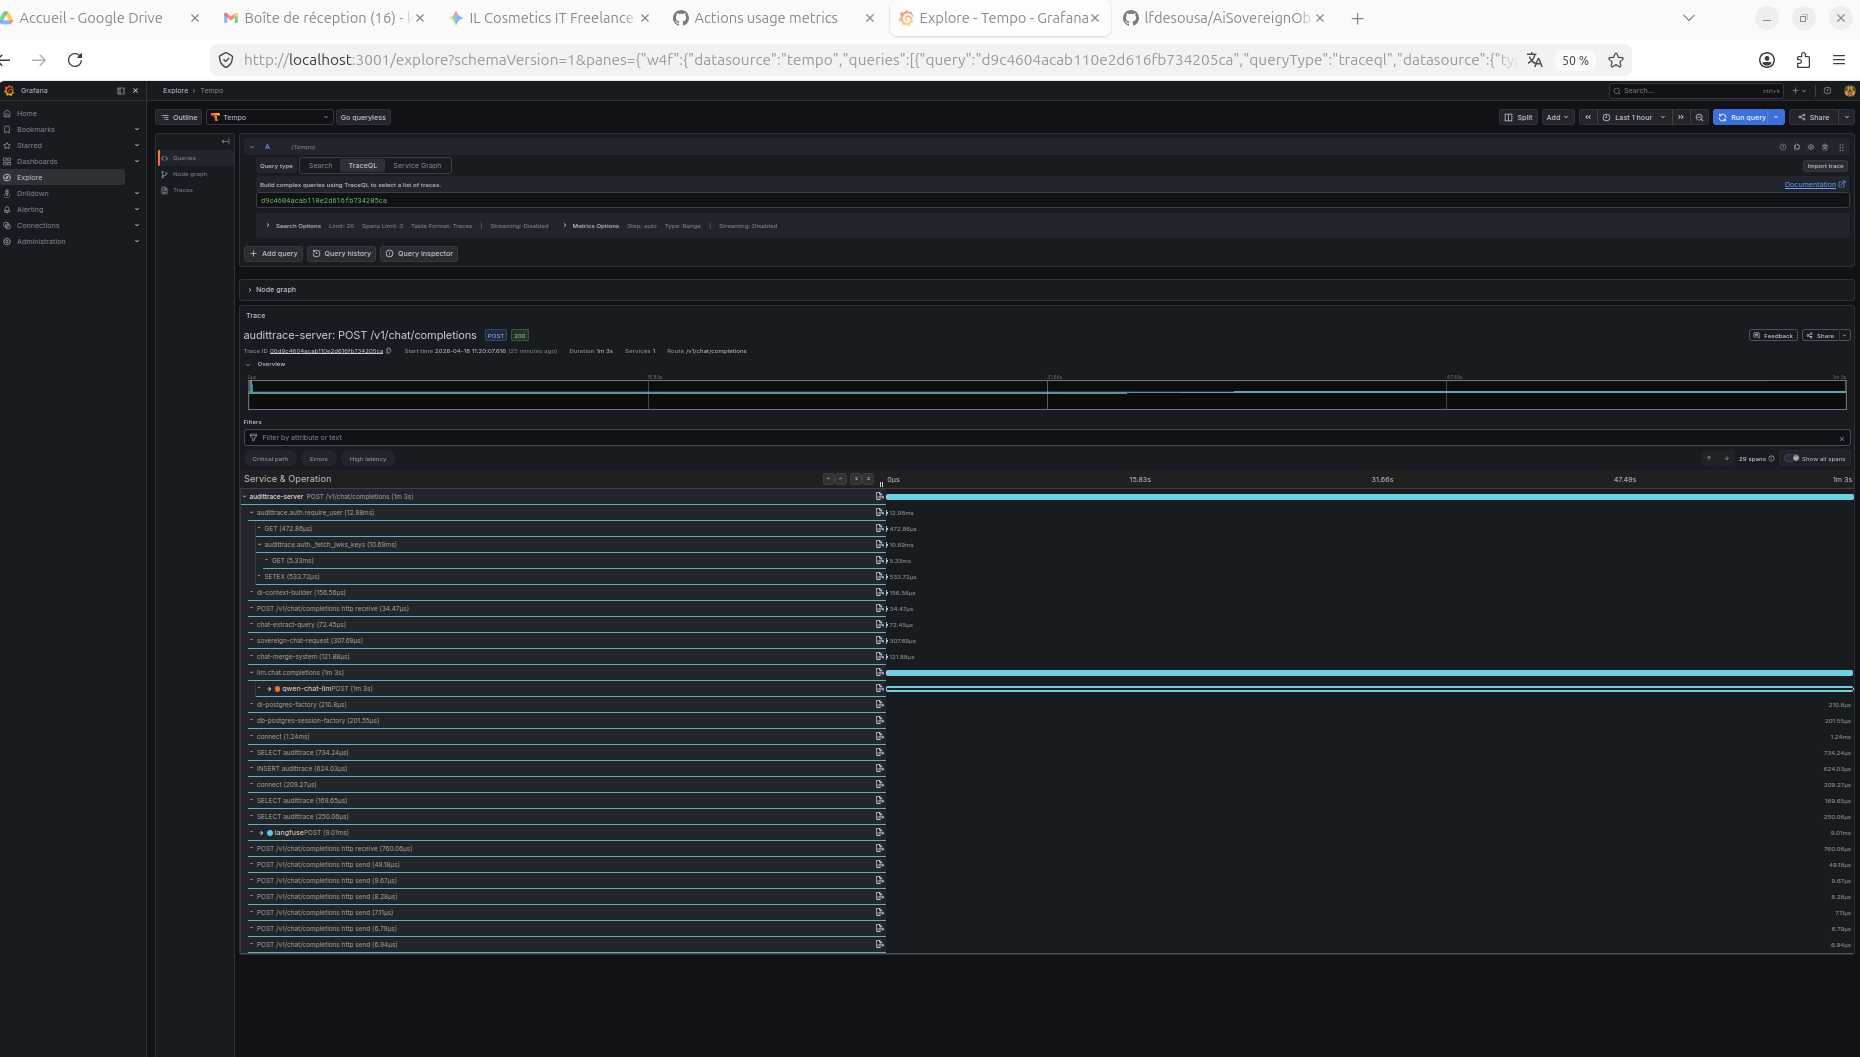
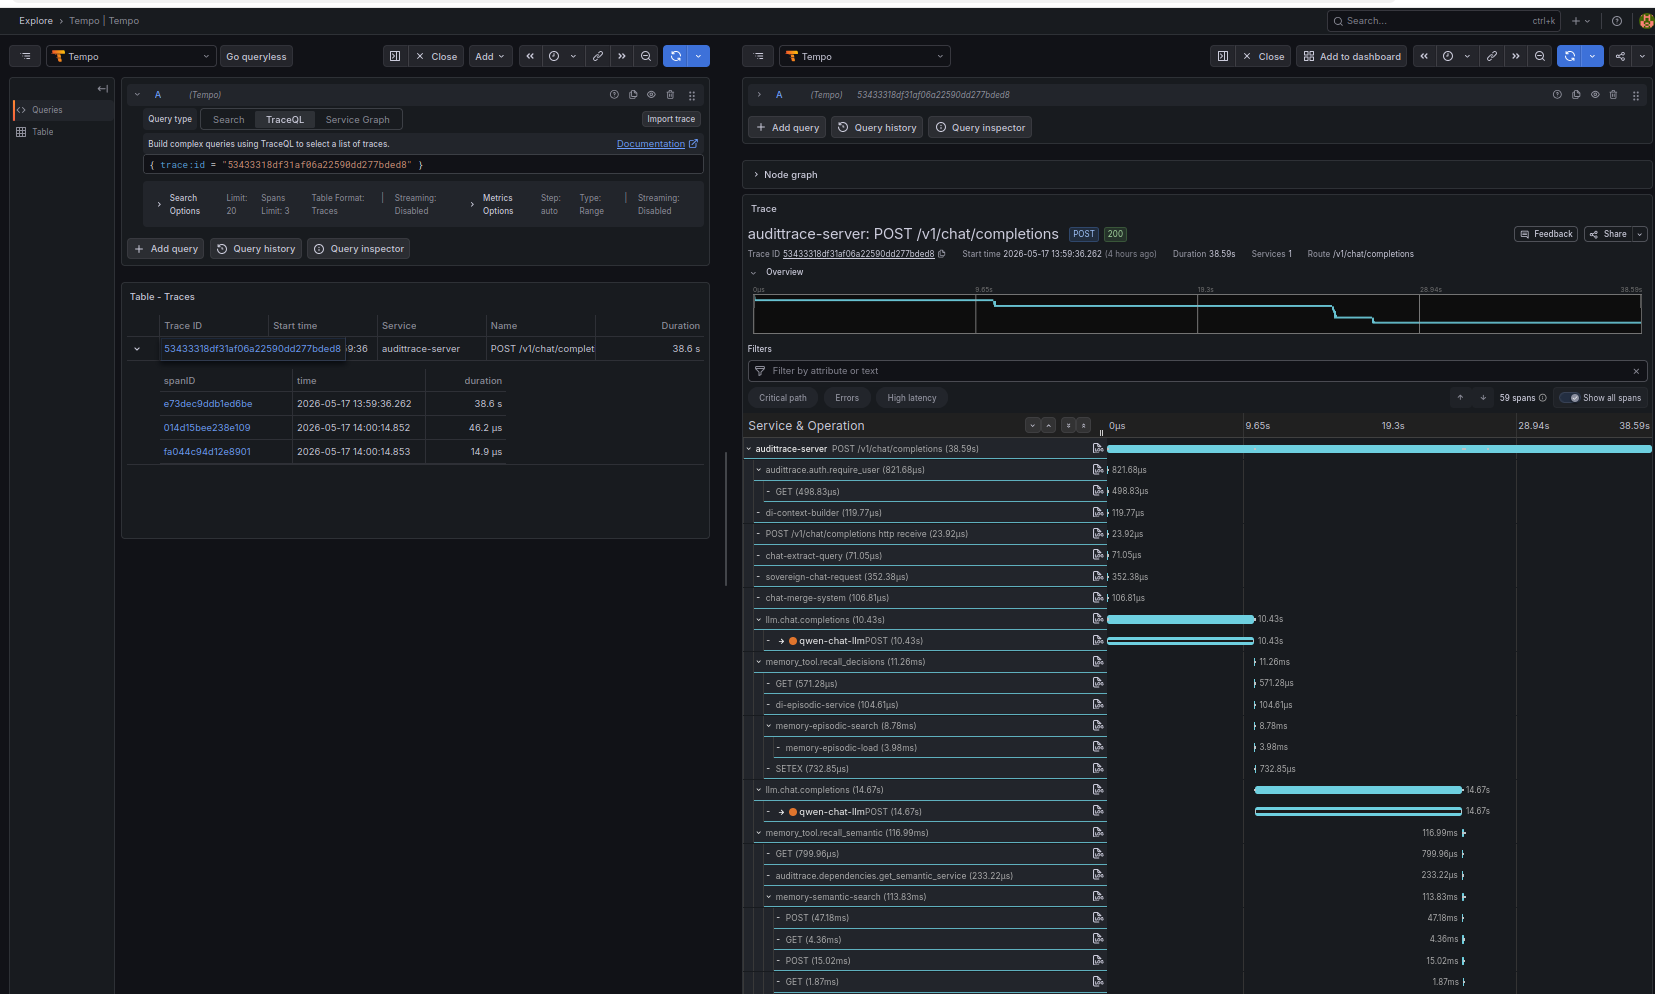
docs(reconstructibility): refresh walkthrough — fresh trace 53433318, 5 missing screenshots, Path B dashboard
The North Star demo doc (docs/reconstructibility-walkthrough.md) was
captured 2026-04-18 against an older probe shape (interaction_id=72,
trace_id=bf8373a8, 2-tool prompt, 74 spans). One month and several
releases later (v1.1.0 → v1.1.7, ADR-048 ingestion content-control,
Path B dashboards, ROCm → Vulkan backend swap) the recorded IDs were
stale and 5 of the 8 referenced Langfuse / Tempo / Grafana screenshots
were never committed to the repo (only 06/07/08 existed on disk).

This change re-fires the canonical probe live, switches to a 3-tool
prompt that exercises recall_decisions + recall_semantic + recall_skills
in cascade (catches the full 4-LLM-round-trip pattern), captures fresh
hops 1 through 8, refreshes all 8 images, and adds a 9th image for
yesterday's Path B audittrace-scan-pipeline dashboard.

Doc body changes:

- Scenario: switched to multi-tool prompt; new probe identifiers
  (interaction_id=402, trace_id=53433318df31af06a22590dd277bded8,
  response_id=chatcmpl-jJSuogYACPvraMxHduLnx3pFmSPQnBNd,
  session_id=cli-reconstructibility-2026-05-17-0b91440...). Notes the
  backend swap to Vulkan-served Qwen 3.6 35B-A3B (also Mistral 7B for
  the summariser) and the two-URL Istio Gateway shape.
- Hop 1 /interactions: refreshed JSON sample (duration 38.5 s vs old
  67.5 s, source=cli-reconstructibility, fresh timestamps); now also
  surfaces trace_id at the row level.
- Hop 2 /sessions: refreshed JSON sample (now Mistral 7B summariser
[…]

diff --git a/docs/reconstructibility-walkthrough.md b/docs/reconstructibility-walkthrough.md
@@ -31,7 +31,7 @@ flowchart LR
 
     Server -. OTLP spans .-> OTel["OTel Collector<br/>DaemonSet"]
     Server -. Langfuse SDK .-> Langfuse["Langfuse<br/>trace + observations"]
-    OTel --> Tempo["Tempo<br/>74 spans / trace"]
+    OTel --> Tempo["Tempo<br/>~60 spans / trace"]
     OTel --> Prom["Prometheus<br/>metrics"]
     Server -.stdout.-> Promtail["Promtail DS"]
     Promtail --> Loki["Loki<br/>structured logs"]
@@ -48,7 +48,7 @@ Every arrow carries the same `trace_id` + `user_id` + `session_id`. The three so
 
 ## Scenario
 
-A user fires one chat request against `POST /v1/chat/completions`. The prompt deliberately triggers two memory tools (`recall_decisions` and `recall_semantic`) so every layer wakes up.
+A user fires one chat request against `POST /v1/chat/completions`. The prompt deliberately invokes three memory tools (`recall_decisions`, `recall_semantic`, `recall_skills`) so every layer wakes up and the audit trail exercises the full surface in one go. Served by **Qwen 3.6 35B-A3B-Q4_K_M on Vulkan** (see [[vulkan-backend-swap]] — backend swapped from ROCm to Vulkan on 2026-05-17) hosted on the local Strix Halo iGPU.
 
 **The request:**
 
@@ -58,25 +58,29 @@ curl -sk \
   -H "Authorization: Bearer $BEARER" \
   -H "Content-Type: application/json" \
   -H "X-Project: reconstructibility-demo" \
-  -X POST https://audittrace.local:30952/v1/chat/completions \
+  -H "X-Source: cli-reconstructibility" \
+  -X POST https://audittrace.allaboutdata.eu:30952/v1/chat/completions \
   -d '{
     "model": "qwen3.6-35b-a3b",
     "stream": false,
+    "max_tokens": 600,
     "messages": [{"role": "user", "content":
-      "Consult recall_decisions and recall_semantic to answer: what did ADR-027 decide about memory storage? Keep it to two short sentences."
+      "Build the answer from THREE memory sources, citing each explicitly: (1) Use recall_decisions to quote ADR-026 on RLS posture. (2) Use recall_semantic to find any ADR that references SPIFFE workload identity in the corpus. (3) Use recall_skills to surface any operational skill documented for rotating a database credential. List each tool contribution as one short labelled sentence."
     }]
   }'
 ```
 
+The external-facing Istio Gateway is `audittrace.allaboutdata.eu:30952`; the internal cluster alias `audittrace.local:30952` resolves to the same gateway and works for in-LAN demos.
+
 **The five identifiers that link every system downstream:**
 
-| Identifier | Value (this run) | Emitted by |
+| Identifier | Value (this run, 2026-05-17) | Emitted by |
 |---|---|---|
 | `user_id` | `0b0cdd4d-04c3-428f-ab9d-37b47429c381` | Keycloak `sub` claim on the JWT |
-| `session_id` | `curl-2026-04-18-8eb7151d4a63bfa79e8c88c53afae3e1` | `_compute_session_id(source, first_user, user_id)` — sha256 over the tuple |
-| `interaction_id` | `72` | Postgres `interactions.id` serial |
-| `trace_id` | `bf8373a8539e2d908e810adbcb00285d` | OpenTelemetry trace id, also used as Langfuse trace id |
-| `response_id` | `chatcmpl-QGdqKxVD3TMmliKPDh1GFzKZxz7TjWQ7` | OpenAI schema, returned in the `id` field |
+| `session_id` | `cli-reconstructibility-2026-05-17-0b9144018db8e1f0f8195ce857c28fe81f32ed4f4e8e4a9e3274cbf0003a9205` | `_compute_session_id(source, first_user, user_id)` — sha256 over the tuple |
+| `interaction_id` | `402` | Postgres `interactions.id` serial |
+| `trace_id` | `53433318df31af06a22590dd277bded8` | OpenTelemetry trace id, also used as Langfuse trace id |
+| `response_id` | `chatcmpl-jJSuogYACPvraMxHduLnx3pFmSPQnBNd` | OpenAI schema, returned in the `id` field |
 
 These five travel together through every hop. Any two of them let you cross-link two systems.
 
@@ -88,26 +92,27 @@ The first and simplest audit query: `GET /interactions` returns the structured r
 
 ```bash
 $ curl -sk -H "Authorization: Bearer $BEARER" \
-    "https://audittrace.local:30952/interactions?project=reconstructibility-demo&limit=1"
+    "https://audittrace.allaboutdata.eu:30952/interactions?project=reconstructibility-demo&limit=1"
 ```
 
 ```json
 {
-  "id": 72,
+  "id": 402,
   "user_id": "0b0cdd4d-04c3-428f-ab9d-37b47429c381",
-  "session_id": "curl-2026-04-18-8eb7151d4a63bfa79e8c88c53afae3e1",
+  "session_id": "cli-reconstructibility-2026-05-17-0b9144018db8e1f0f8195ce857c28fe81f32ed4f4e8e4a9e3274cbf0003a9205",
   "project": "reconstructibility-demo",
-  "source": "curl",
+  "source": "cli-reconstructibility",
   "status": "success",
   "failure_class": null,
   "error_detail": null,
-  "duration_ms": 67565,
+  "duration_ms": 38542,
   "model": "Qwen_Qwen3.6-35B-A3B-Q4_K_M.gguf",
-  "prompt_tokens": 2261,
-  "completion_tokens": 1189,
-  "timestamp": "2026-04-18T09:04:58.376665",
-  "question": "Consult recall_decisions and recall_semantic to answer: what did ADR-027 decide about memory storage? Keep it to two short sentences.",
-  "answer": "<think>\nThe semantic search returned..."
+  "prompt_tokens": 6427,
+  "completion_tokens": 501,
+  "timestamp": "2026-05-17T12:00:14.810969",
+  "trace_id": "53433318df31af06a22590dd277bded8",
+  "question": "Build the answer from THREE memory sources, citing each explicitly: (1) Use recall_decisions to quote ADR-026 on RLS posture. (2) Use recall_semantic to find any ADR that references SPIFFE workload identity in the corpus. (3) Use recall_skills to surface any operational skill documented for rotating a database credential. List each tool contribution as one short labelled sentence.",
+  "answer": "<think>\nThe `recall_skills` search returned general skills (ARCHITECTURE, CLOUD-APP-PATTERNS, ...) ..."
 }
 ```
 
@@ -126,23 +131,23 @@ After the summariser runs (async, every 5 min on idle sessions), the conversatio
 
 ```bash
 $ curl -sk -H "Authorization: Bearer $BEARER" \
-    "https://audittrace.local:30952/sessions?project=reconstructibility-demo&limit=1"
+    "https://audittrace.allaboutdata.eu:30952/sessions?project=reconstructibility-demo&limit=1"
 ```
 
 ```json
 {
-  "id": "curl-2026-04-18-8eb7151d4a63bfa79e8c88c53afae3e1",
+  "id": "cli-reconstructibility-2026-05-17-0b9144018db8e1f0f8195ce857c28fe81f32ed4f4e8e4a9e3274cbf0003a9205",
   "project": "reconstructibility-demo",
-  "date": "2026-04-18T09:04:58.376665",
-  "summary": "The user asked about ADR-027. The assistant cited MinIO object storage...",
-  "key_points": "[\"ADR-027: MinIO object storage\", \"stateless memory layers\", \"SSE-S3 encryption at rest\"]",
-  "model": "Mistral-7B-Instruct-v0.3-Q4_K_M.gguf",
+  "date": "2026-05-17T12:18:59.498818",
+  "summary": "The recall_decisions tool provided information about ADR-026 defining the multi-user identity, scopes, and cross-user isolation posture, accepted on 2026-04-11. The recall_semantic tool returned zero matches for SPIFFE workload identity, and recall_skills returned only general skill catalogues without a dedicated database-credential rotation procedure.",
+  "key_points": "[\"ADR-026 multi-user identity\", \"RLS scoped wrappers\", \"recall_semantic empty for SPIFFE\", \"no dedicated DB-credential rotation skill\"]",
+  "model": "mistral-7b-summarizer",
   "user_id": "0b0cdd4d-04c3-428f-ab9d-37b47429c381",
-  "summarized_at": "2026-04-18T09:09:00.123456"
+  "summarized_at": "2026-05-17T12:18:59.498818"
 }
 ```
 
-The session row cross-references Hop 1 via the same `session_id`. The `key_points` JSON gives you a structured abstract; the `summary` gives you the prose version. Filter with `?summarised=false` to find freshly-created sessions awaiting summarisation.
+The summariser runs ~5 minutes after the last interaction in a session via the Mistral 7B service (also on Vulkan since 2026-05-17 — see [[vulkan-backend-swap]]). The session row cross-references Hop 1 via the same `session_id`. The `key_points` JSON gives you a structured abstract; the `summary` gives you the prose version. Filter with `?summarised=false` to find freshly-created sessions awaiting summarisation.
 
 ---
 
@@ -167,14 +172,18 @@ flowchart TB
     Extract["chat-extract-query"]
     Merge["chat-merge-system"]
     Prep["sovereign-chat-request<br/>tools advertised"]
-    LLM1["llm.chat.completions #1<br/>gen_ai.model + prompt + completion"]
-    LLM2["llm.chat.completions #2<br/>after decisions tool_result"]
-    LLM3["llm.chat.completions #3<br/>final answer"]
+    LLM1["llm.chat.completions #1<br/>initial — tools advertised"]
+    LLM2["llm.chat.completions #2<br/>after recall_decisions result"]
+    LLM3["llm.chat.completions #3<br/>after recall_semantic result"]
+    LLM4["llm.chat.completions #4<br/>final synthesis"]
     Tool1["memory_tool.recall_decisions<br/>input: args  /  output: result"]
     Tool2["memory_tool.recall_semantic<br/>input: args  /  output: result"]
+    Tool3["memory_tool.recall_skills<br/>input: args  /  output: result"]
+    S3a["memory-episodic-search"]
+    S3b["memory-episodic-load"]
     Chroma["memory-semantic-search<br/>ChromaDB query"]
-    S3a["S3EpisodicService.search"]
-    S3b["S3EpisodicService.load"]
+    Proc1["memory-procedural-search"]
+    Proc2["memory-procedural-load"]
 
     Root --> Auth
     Auth --> JWKS
@@ -182,22 +191,26 @@ flowchart TB
     Root --> Extract
     Root --> Merge
     Root --> Prep
-    Prep --> S3a
-    Prep --> S3b
     Prep --> LLM1
     LLM1 --> Tool1
+    Tool1 --> S3a
+    Tool1 --> S3b
     Prep --> LLM2
     LLM2 --> Tool2
     Tool2 --> Chroma
     Prep --> LLM3
+    LLM3 --> Tool3
+    Tool3 --> Proc1
+    Tool3 --> Proc2
+    Prep --> LLM4
 
     classDef llm fill:#065f46,stroke:#10b981,color:#ecfdf5
     classDef tool fill:#5b21b6,stroke:#a78bfa,color:#f5f3ff
     classDef store fill:#1f2937,stroke:#475569,color:#f1f5f9
     classDef root fill:#0c4a6e,stroke:#38bdf8,color:#f0f9ff
-    class LLM1,LLM2,LLM3 llm
-    class Tool1,Tool2 tool
-    class Chroma,S3a,S3b store
+    class LLM1,LLM2,LLM3,LLM4 llm
+    class Tool1,Tool2,Tool3 tool
+    class S3a,S3b,Chroma,Proc1,Proc2 store
     class Root root
 ```
 
@@ -225,71 +238,85 @@ The `memory_tool.recall_decisions` observation (commit `65a5965`) shows the tool
 
 What this hop proves:
 
-- **Which memory layers fired** — two tool spans (`recall_decisions`, `recall_semantic`) are visible as distinct children, each with the tool arguments the model passed and the result the tool returned.
-- **How the model iterated** — three `llm.chat.completions` spans show the model round-tripped three times (initial question → after decisions result → after semantic result → final answer).
+- **Which memory layers fired** — three tool spans (`recall_decisions`, `recall_semantic`, `recall_skills`) are visible as distinct children, each with the tool arguments the model passed and the result the tool returned. The model honestly reports empty results — `recall_semantic` for "SPIFFE" returned zero matches and `recall_skills` for "rotate database credential" returned only general skill catalogues; both are captured in the Output as plain prose so the auditor can verify the model did not hallucinate a result.
+- **How the model iterated** — four `llm.chat.completions` spans show the model round-tripped four times (initial question → after decisions result → after semantic result → after skills result → final synthesis).
 - **What the LLM saw and produced** — input and output populated at both trace level and on the root observation.
-- **User attribution at every level** — every observation carries `langfuse.user.id` (commit `8d32440`) so the Langfuse user filter surfaces the whole tree, not just the root.
+- **User attribution at every level** — every observation carries `langfuse.user.id` AND `user.id` (commit `8d32440`) so the Langfuse user filter surfaces the whole tree, not just the root.
+- **Cache visibility** — the `tool.cache_hit` attribute on each `memory_tool.*` observation discloses whether the layer was actually touched (`false` — 11 ms layer hit) or served from the Redis tool-result cache (`true`); both fired `false` on this run.
 
 ---
 
 ## Hop 4 — Tempo (full OTel call tree, every outbound edge)
 
-Tempo stores the same trace with **every** span the OTel SDK and auto-instrumentors emitted — including database queries, Redis SETEX, MinIO S3 calls, and every outbound HTTP. For the probe in this walkthrough: **74 spans** (29 visible in the single-frame capture below; the rest are HTTP send/receive leaves collapsed under their parents).
+Tempo stores the same trace with **every** span the OTel SDK and auto-instrumentors emitted — including database queries, Redis SETEX, ChromaDB queries, and every outbound HTTP. For the probe in this walkthrough: **59 spans** (the multi-tool prompt fires 3 memory layers + 4 LLM round-trips + the persistence + audit edges).
 
-### The flamegraph — one image, the whole call chain
+### The waterfall — one image, the whole call chain
 
-![Tempo trace flamegraph showing every span](images/reconstructibility/07-tempo-flamegraph.png)
+![Tempo trace waterfall showing every span, dominant bars are the four LLM calls](images/reconstructibility/07-tempo-flamegraph.png)
 
-This is the image to put in the deck. It reads top-to-bottom as the request's life:
+This is the image to put in the deck (Grafana labels this view "Spans" — it is the standard waterfall/Gantt). It reads top-to-bottom as the request's life:
 
-1. **`audittrace.auth.require_user`** (12.98 ms) — JWT validated against Keycloak. The nested `audittrace.auth._fetch_jwks_keys` + `GET` + `SETEX` show the JWKS fetch + Redis-cache write the first time a new kid is seen.
-2. **`di-context-builder`** (156 μs), **`chat-extract-query`** (72 μs), **`chat-merge-system`** (121 μs), **`sovereign-chat-request`** (307 μs) — the proxy prep layer, all sub-millisecond.
-3. **`llm.chat.completions`** (1 m 3 s — the dominant bar) — nested `qwen-chat-llm POST` shows the actual outbound LLM call with the `peer.service=qwen-chat-llm` label. Everything else on the trace is microseconds; LLM inference is the only slow thing, and that's the trade-off the user is paying for.
-4. **Postgres writes** — `di-postgres-factory`, `db-postgres-session-factory`, `connect`, `SELECT audittrace` x3, `INSERT audittrace` — the audit-row persistence on the success path, all under 1 ms.
-5. **`langfuse POST`** (9 ms) — the explicit `/api/public/ingestion` call (commit `e7005e0`) that writes trace-level Input/Output to Langfuse.
+1. **`audittrace.auth.require_user`** (821 μs) — JWT validated against Keycloak. The nested `GET` (498 μs) is the JWKS fetch (cached after the first request — see Hop 8).
+2. **`di-context-builder`** (119 μs), **`chat-extract-query`** (71 μs), **`sovereign-chat-request`** (352 μs), **`chat-merge-system`** (106 μs) — the proxy prep layer, all sub-millisecond.
+3. **Four `llm.chat.completions` bars** (10.43 s + 14.67 s + 1.03 s + 11.66 s ≈ **the entire 38.59 s** wall-time) — each nested under a `qwen-chat-llm POST` child, the outbound HTTP to the local Vulkan-served Qwen 3.6 service. Every iteration is `peer.service=qwen-chat-llm`.
+4. **Three `memory_tool.*` bars** between the LLM calls — each with its layer-specific children:
+   - `memory_tool.recall_decisions` (11.26 ms) → `memory-episodic-search` (8.78 ms) + `memory-episodic-load` (3.98 ms) + `SETEX` (732 μs Redis tool-result cache write).
+   - `memory_tool.recall_semantic` (117 ms) → `memory-semantic-search` (113 ms) which itself wraps four nested `POST` / `GET` HTTPs against ChromaDB.
+   - `memory_tool.recall_skills` (~20 ms) → `memory-procedural-search` + `memory-procedural-load`.
+5. **Postgres writes** at the bottom under the final LLM call — `di-postgres-factory`, `db-postgres-session-factory`, `INSERT audittrace` — the synchronous audit-row persistence on the success path.
 
-Every span carries `user.id` (commit `8d32440`), so `{ span.user.id = "<sub>" }` in TraceQL pulls only that user's activity out of Tempo.
+Every span carries `user.id` (commit `8d32440`), so `{ span.user.id = "<sub>" }` in TraceQL pulls only that user's activity out of Tempo. Span count and exact bar widths depend on the model's tool-call choices for a given prompt — a single-tool probe lands around 45 spans, a four-tool probe up to ~80.
 
-### The service map — eight edges, named
+### The service map — two hubs, named edges
 
-![Tempo service map with 8 peer.service edges](images/reconstructibility/06-tempo-service-map.png)
+![Tempo service map showing audittrace-server and audittrace-content-control hubs with their peer.service edges](images/reconstructibility/06-tempo-service-map.png)
 
-Tempo's metrics-generator derives a service graph from the spans' `peer.service` attributes. Every outbound edge memory-server makes is named, including the Langfuse ingestion edge (`peer.service=langfuse`, commit `93de0ca`):
+Tempo's metrics-generator derives a service graph from the spans' `peer.service` attributes. Since [ADR-048](ADR-048-content-control.md) shipped (2026-05-10), the runtime is a **two-hub topology** — `audittrace-server` (memory-server, chat + memory routes) and `audittrace-content-control` (PDF scanner, separate identity + IAM split) — each calling its own subset of the storage layer:
 
 ```mermaid
 flowchart LR
     U["user"] --> S["audittrace-server"]
-    S --> PG["audittrace-postgresql"]
-    S --> CH["audittrace-chromadb"]
-    S --> R["audittrace-redis-master"]
-    S --> M["audittrace-minio"]
+    U --> CC["audittrace-content-control"]
     S --> K["audittrace-keycloak"]
     S --> Q["qwen-chat-llm"]
+    S --> MS["mistral-summariser-llm"]
+    S --> R["audittrace-redis-master"]
     S --> LF["langfuse"]
+    S --> PG["audittrace-postgresql"]
+    S --> CH["audittrace-chromadb"]
+    S --> M["audittrace-minio"]
+    CC --> PG
+    CC --> M
+    CC --> CH
 
     classDef server fill:#0c4a6e,stroke:#38bdf8,color:#f0f9ff
+    classDef scanner fill:#7c2d12,stroke:#fb923c,color:#fff7ed
     classDef peer fill:#1f2937,stroke:#475569,color:#f1f5f9
     class S server
-    class PG,CH,R,M,K,Q,LF peer
+    class CC scanner
+    class PG,CH,R,M,K,Q,MS,LF peer
 ```
 
-Inventory for the probe:
+The metrics-generator only shows edges that fired within its time window — for the screenshot above (Last 6 hours) the dominant edges are the recently exercised ones (LLM, Keycloak, Redis, Langfuse on the chat hub; Postgres / MinIO / ChromaDB on the scan hub). The two LLM-side edges — `qwen-chat-llm` (chat) and `mistral-summariser-llm` (session summariser) — are both served by the local `llama-server.service` and `llama-summarizer.service` units that were swapped from ROCm to Vulkan on 2026-05-17 (see [[vulkan-backend-swap]]).
+
+Inventory for the probe (multi-tool, 59 spans):
 
 | Span name | Count | What it proves |
 |---|---:|---|
 | `POST /v1/chat/completions` | 1 | Root FastAPI span (wall time + HTTP attrs) |
 | `audittrace.auth.require_user` | 1 | Auth gate latency |
-| `audittrace.auth._fetch_jwks_keys` | 1 | Keycloak JWKS hit |
 | `sovereign-chat-request` | 1 | Langfuse-recognised parent |
-| `llm.chat.completions` | 3 | Three LLM round-trips (commit `fa5198a` / `2ef15c3`) |
+| `llm.chat.completions` | 4 | Four LLM round-trips (initial + after each tool result) |
+| `qwen-chat-llm POST` | 4 | Outbound HTTP to the local Vulkan-served Qwen 3.6 — one per LLM round-trip |
 | `memory_tool.recall_decisions` | 1 | Decisions tool invocation (commit `65a5965`) |
 | `memory_tool.recall_semantic` | 1 | Semantic tool invocation |
-| `memory-semantic-search` | 1 | ChromaDB similarity search (nested under tool) |
-| `S3EpisodicService.search` / `.load` | 2 | MinIO episodic reads |
-| `SELECT audittrace` | 4 | Postgres reads (incl. RLS-gated) |
-| `INSERT audittrace` | 2 | `interactions` + `tool_calls` writes |
-| `SETEX` | 3 | Redis cache writes (token cache + tool-result cache) |
-| `POST` / `GET` / `connect` | 42 | Outbound HTTP (Qwen, nomic, Langfuse, Tempo, Loki) |
+| `memory_tool.recall_skills` | 1 | Skills (procedural) tool invocation |
+| `memory-episodic-search` / `.load` | 2 | MinIO episodic reads under `recall_decisions` |
+| `memory-semantic-search` | 1 | ChromaDB similarity search under `recall_semantic` (nested 4 HTTPs to Chroma) |
+| `memory-procedural-search` / `.load` | 2 | MinIO procedural reads under `recall_skills` |
+| `INSERT audittrace` / `db-postgres-session-factory` | several | Audit-row persistence on success path |
+| `SETEX` | ≥1 | Redis cache writes (token cache + tool-result cache) |
+| `GET` / `POST` / `connect` | balance | Outbound HTTP leaves under each parent |
 
 ---
 
@@ -305,7 +332,7 @@ $ curl -s --get "http://192.168.1.231:3100/loki/api/v1/query_range" \
 ```
 
 ```
-2026-04-18 09:04:58  INFO  127.0.0.6:42963 - "POST /v1/chat/completions HTTP/1.1" 200 OK
[phone redacted]:59:36  INFO  127.0.0.6:46855 - "POST /v1/chat/completions HTTP/1.1" 200 OK
 ```
 
 And ERROR-grade lines for any failure. An auditor investigating a failure can:
@@ -433,14 +460,15 @@ This is not a gap to close; it's an honest trust boundary. The memory-server aud
 BEARER=$(scripts/audittrace-login --show)
 RESPONSE=$(curl -sk -H "Authorization: Bearer $BEARER" \
   -H "X-Project: reconstructibility-demo" \
+  -H "X-Source: cli-reconstructibility" \
   -H "Content-Type: application/json" \
-  -X POST https://audittrace.local:30952/v1/chat/completions \
+  -X POST https://audittrace.allaboutdata.eu:30952/v1/chat/completions \
   -d '{"model":"qwen3.6-35b-a3b","stream":false,"messages":[{"role":"user","content":"hello"}]}')
 
 # 2. Pull the row (Hop 1).
 curl -sk -H "Authorization: Bearer $BEARER" \
-  "https://audittrace.local:30952/interactions?project=reconstructibility-demo&limit=1" \
-  | jq '.interactions[0] | {id, user_id, session_id, duration_ms, status}'
+  "https://audittrace.allaboutdata.eu:30952/interactions?project=reconstructibility-demo&limit=1" \
+  | jq '.interactions[0] | {id, user_id, session_id, trace_id, duration_ms, status}'
 
 # 3. Find the Langfuse trace (Hop 3). Copy the trace_id.
 curl -s -u "$PK:$SK" \
@@ -529,26 +557,51 @@ during incident triage.
 
 ---
 
-## The operator view — "Sovereign AI Operations" dashboard
+## The operator view — two Grafana dashboards
 
-When the auditor isn't drilling into a specific request, the Grafana dashboard shows the posture at a glance: latency percentiles, error rate by type, LLM tokens/sec, OTel Collector queue saturation, container logs. If any panel goes red, there's something to investigate — the dashboard is how the day-to-day operator knows the audit trail is intact.
+When the auditor isn't drilling into a specific request, the Grafana dashboards show the operational posture at a glance.
 
-![Sovereign AI Operations dashboard, all panels green](images/reconstructibility/08-grafana-sovereign-ops.png)
+### "Sovereign AI Operations" — chat / memory hub
+
+Request latency percentiles (P50 / P95 / P99), HTTP request rate by route (with status-code split — `200` vs `400` vs `404`), operation duration by function (`ChromaSemanticService.search`, `S3EpisodicService.load/.read/.search`, factory wiring), OTel Collector queue saturation + throughput (metrics / spans / logs ops/s, plus failed-metrics + failed-spans counters), `llama-server` tokens-per-second + peak KV usage, container ERROR-level logs.
+
+![Sovereign AI Operations dashboard — chat + memory hub](images/reconstructibility/08-grafana-sovereign-ops.png)
+
+(The dashboard title still reads "Sovereign AI Operations" — preserved from before the 2026-04-17 [ADR-035](ADR-035-rename-package.md) package rename; the underlying queries target `audittrace-*` series.)
+
+### "AuditTrace Scan Pipeline" — content-control hub (ADR-048 / Path B)
+
+Yesterday's Path B work (2026-05-16, vendored in chart v1.1.4) added a second operator dashboard wired to the `audittrace-content-control` sibling service via RabbitMQ exporter + Redis exporter scraping. It surfaces queue depths on `audittrace.scan.*` exchanges, in-flight scan-id correlation, and the `content_control_verdicts_total{verdict=...}` counter so an operator can see at a glance whether the scanner is keeping up and what verdict mix it is producing.
+
+![AuditTrace Scan Pipeline dashboard — content-control hub (Path B)](images/reconstructibility/09-grafana-scan-pipeline.png)
+
+If any panel on either dashboard goes red, there's something to investigate — together they cover both hubs of the two-hub topology shown in Hop 4's service map.
 
 ---
 
 ## References
 
+- **ADR-022** — Keycloak realm + scoped client design
+- **ADR-023** — JWT validation + JWKS caching (Hop 8 Redis `audittrace:token:*`)
 - **ADR-024** — proxy pass-through, Langfuse trace decoupling
 - **ADR-025** — memory-as-tools, tool-result cache, Decision 8 (cache-hit audit skip)
 - **ADR-026** — multi-user identity, RLS posture, scoped wrappers
 - **ADR-027** — MinIO object storage, SSE-S3 encryption at rest
 - **ADR-028** — observability aggregation stack (Tempo + Prometheus + Loki + Grafana + Langfuse)
 - **ADR-029** — end-to-end audit trail, `X-Project` tag, `/interactions` browser
-- **ADR-030** — session summariser (Mistral 7B)
+- **ADR-030** — session summariser (Mistral 7B — now Vulkan-served, [[vulkan-backend-swap]])
 - **ADR-032** — OAuth2 Device Flow for human agents
 - **ADR-033** — three-audience error envelope, failure-class taxonomy
 - **ADR-034** — long-running generation, per-chunk idle timeout, `X-Thinking`
+- **ADR-035** — package rename (`sovereign_memory` → `audittrace`); legacy `Sovereign AI Operations` dashboard title preserved from this era
 - **ADR-037** — agent tool audit boundary (this doc's "what is NOT" section)
-- **ADR-048** — ingestion content-control (this doc's "rejected-PDF scenario" section)
+- **ADR-042** — OIDC Authorization Code + PKCE (WebUI sign-in flow)
+- **ADR-043** — Vault as sole secret store
+- **ADR-044** — external IdP federation (Google Workspace OIDC, M2 demo path)
+- **ADR-046** — async chat persistence (opt-in; default sync per `feedback_openai_schema_inviolate`)
+- **ADR-048** — ingestion content-control (this doc's "rejected-PDF scenario" + the second hub on the Hop 4 service map)
+- **ADR-049** — test + evidence + reconstructibility gate (the discipline that produced this doc's re-capture exercise)
+- **ADR-052** — PAdES trust store + signature-failure-class taxonomy
+- **ADR-053** — Swiss federal TSL + composite trust store
+- **ADR-054** — PAdES as-of-signing-time validation
 - **ADR-057** — RabbitMQ broker for scan-control transport